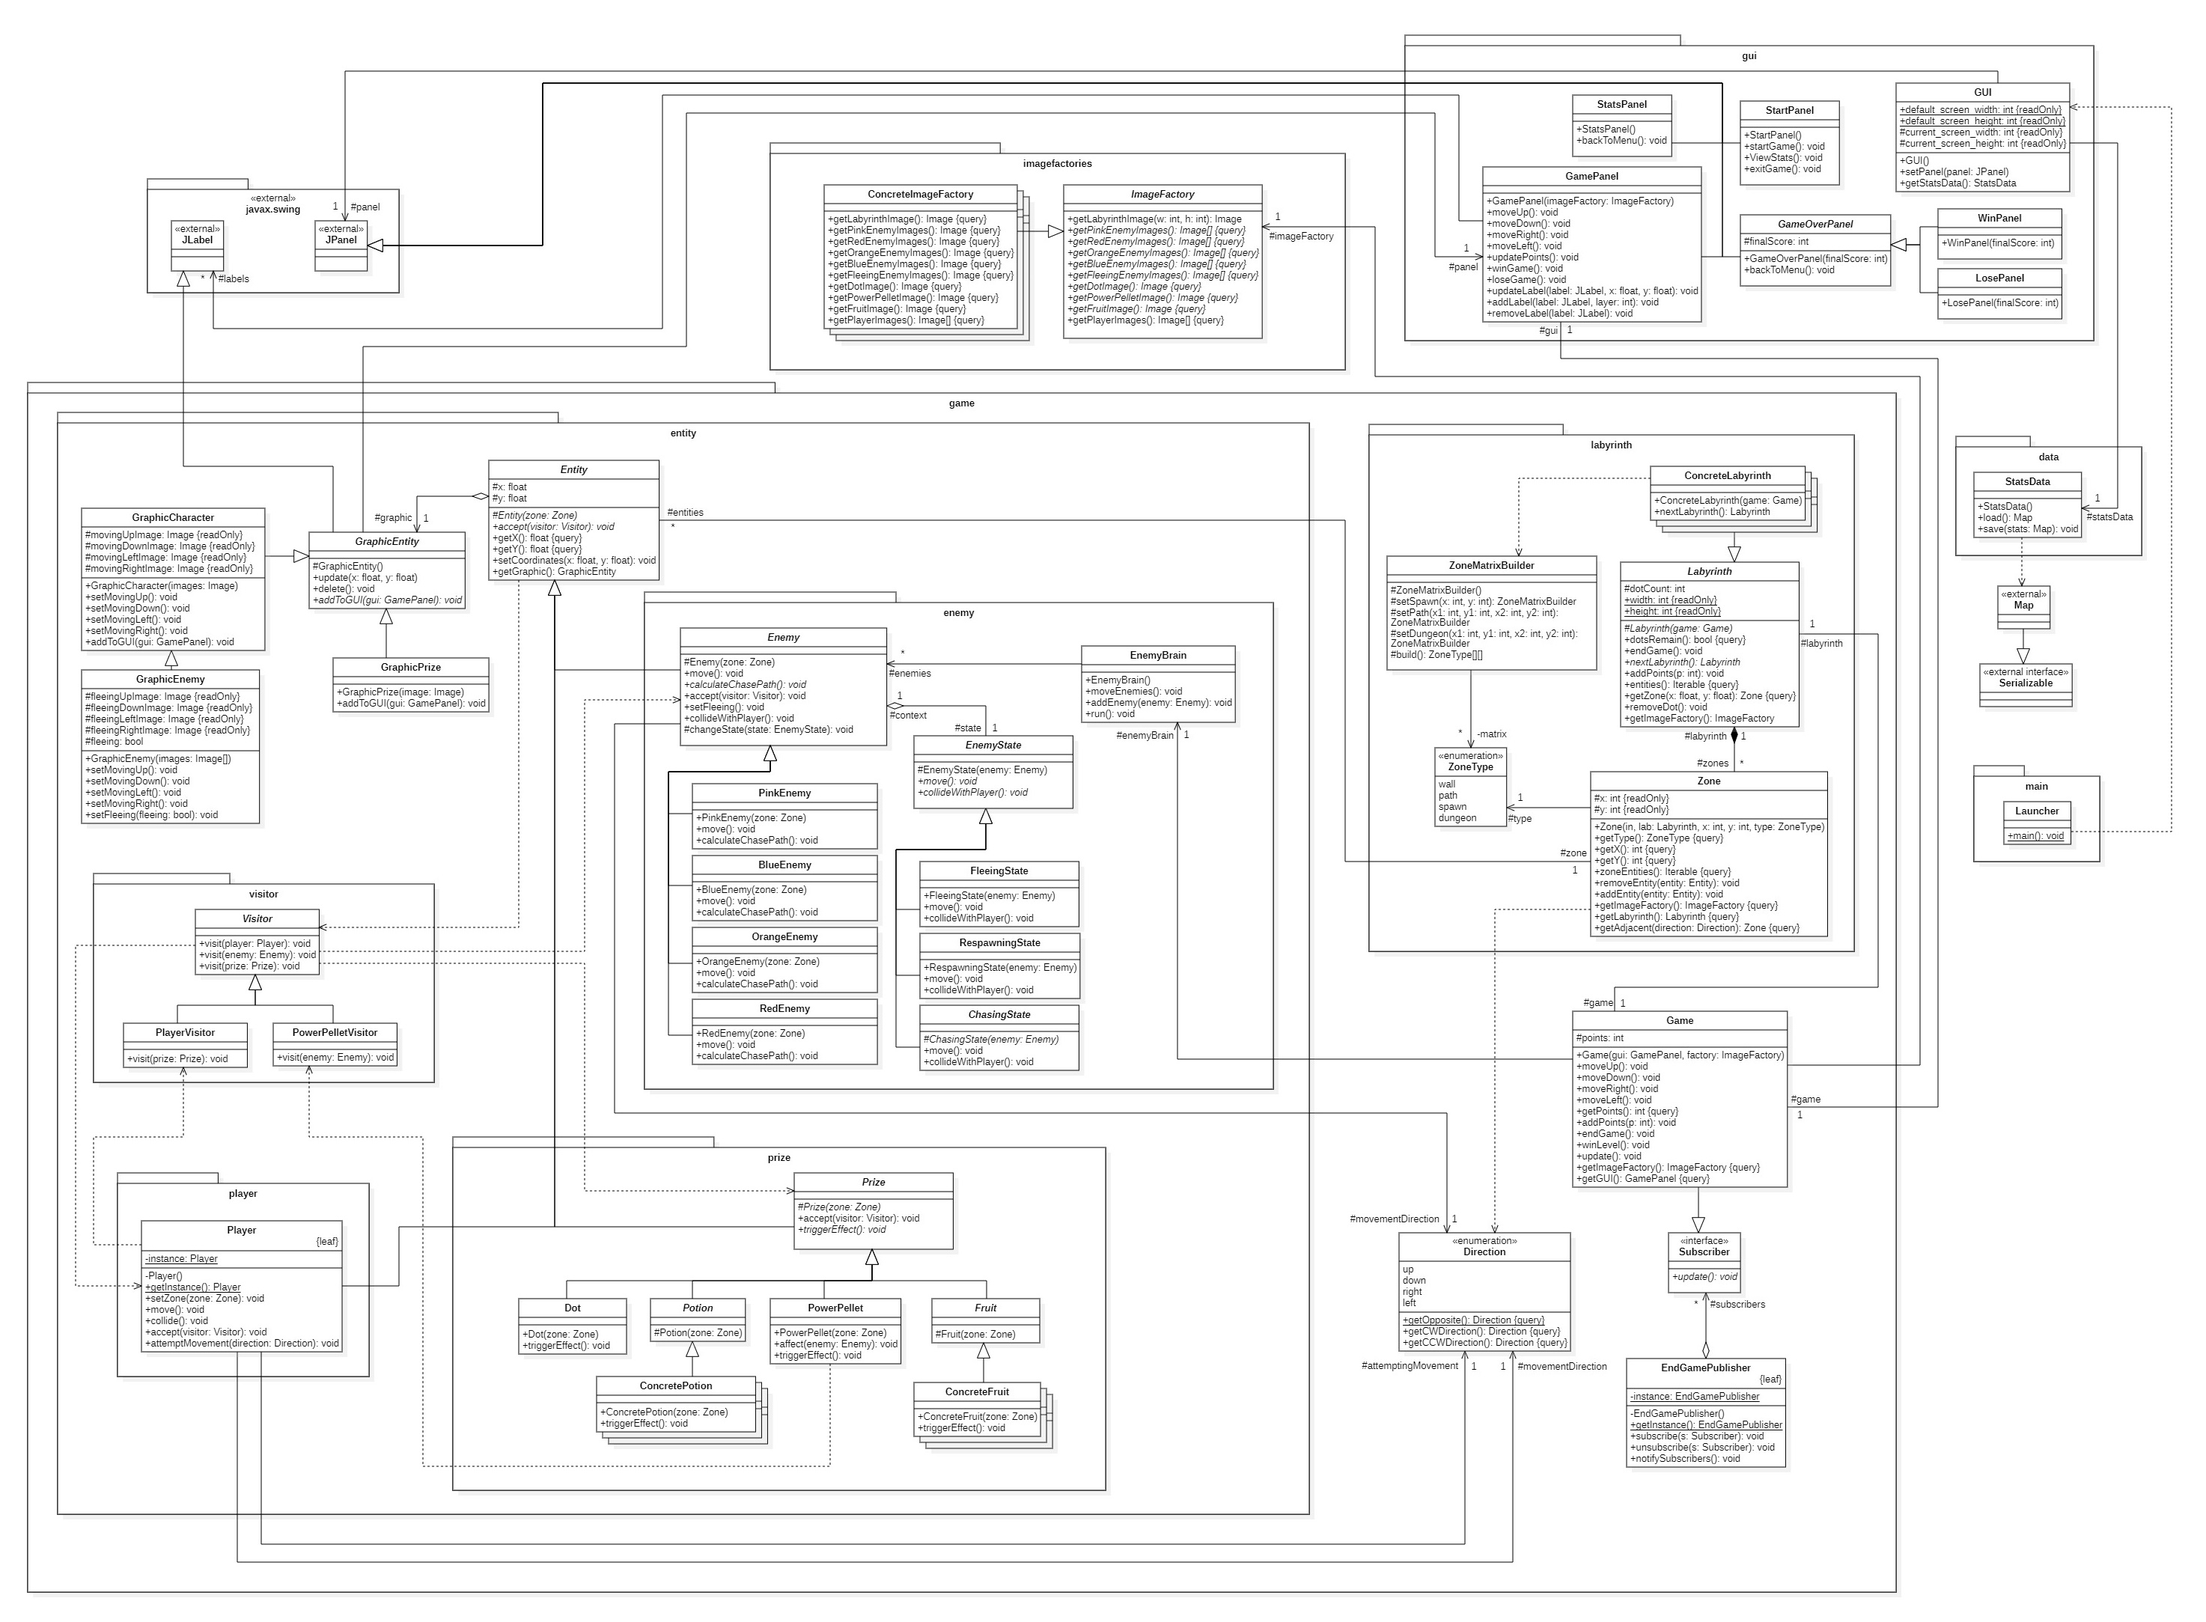
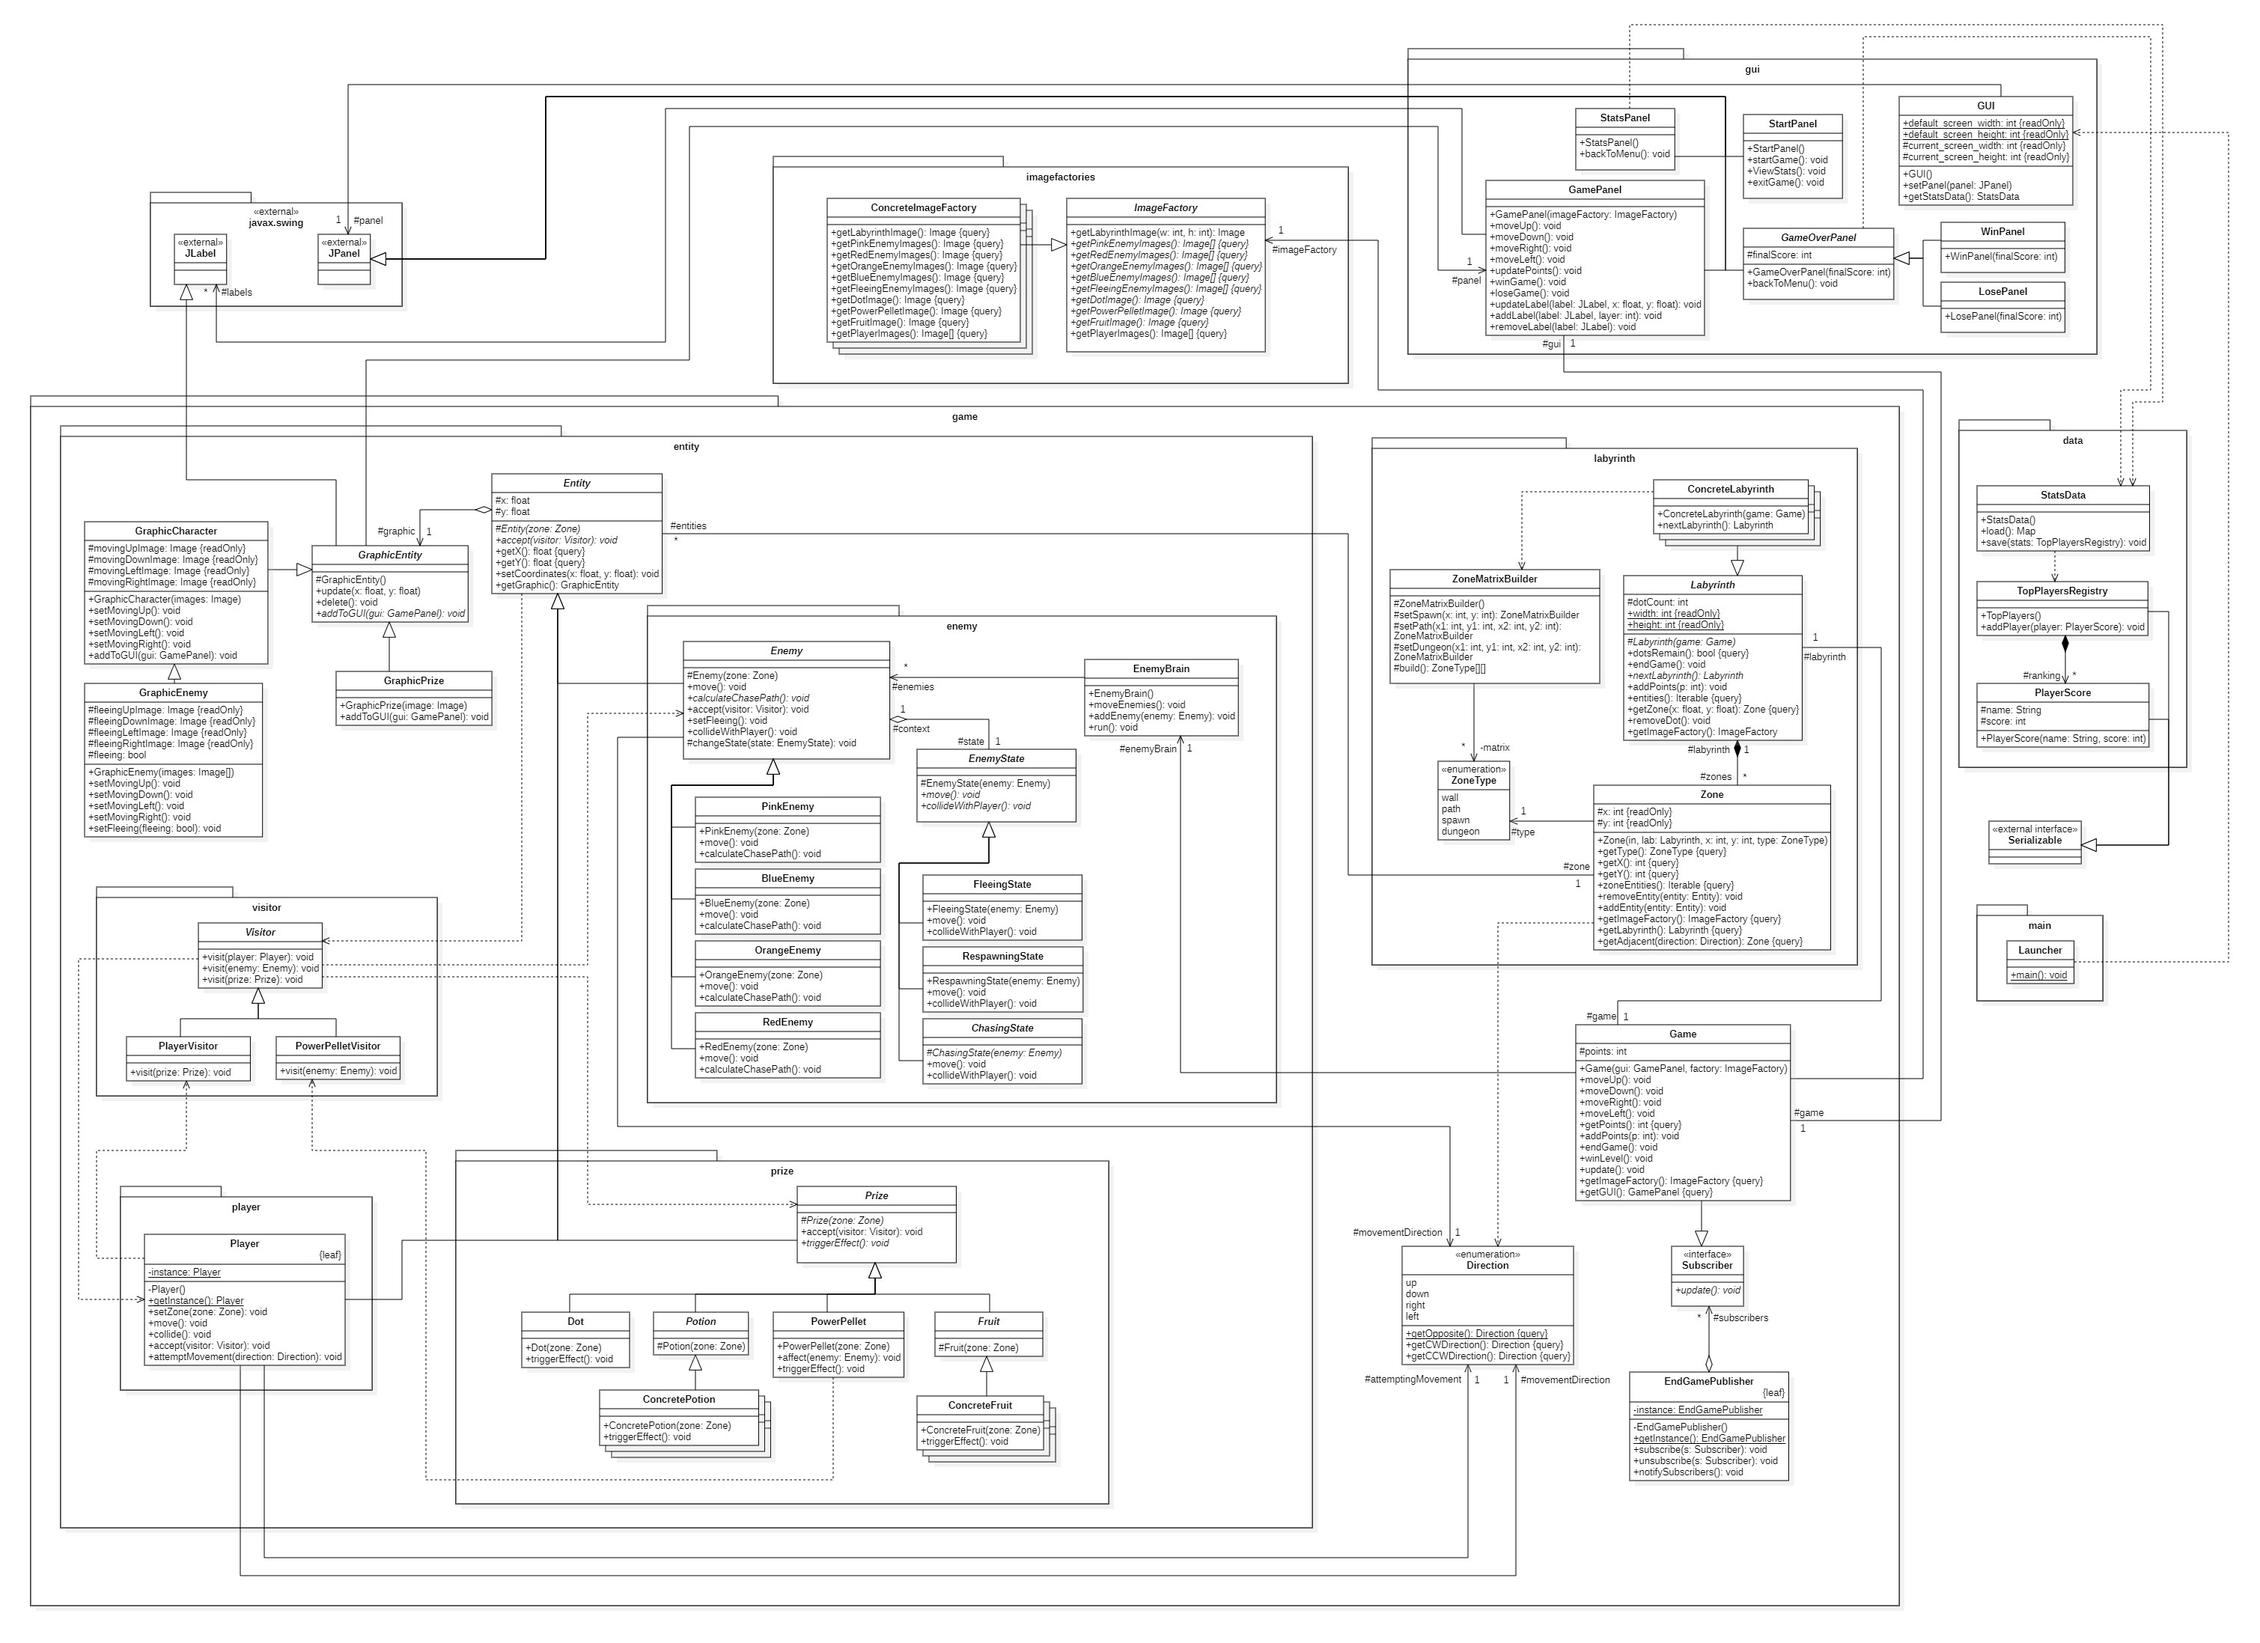
Modificado diagrama de clases
cambios en data

diff --git a/src/data/PlayerScore.java b/src/data/PlayerScore.java
@@ -2,7 +2,7 @@ package data;
 
 import java.io.Serializable;
 
-public class ScorePlayer implements Serializable, Comparable<ScorePlayer> {
+public class PlayerScore implements Serializable, Comparable<PlayerScore> {
 	/**
 	 * 
 	 */
@@ -10,7 +10,7 @@ public class ScorePlayer implements Serializable, Comparable<ScorePlayer> {
 	private String name;
 	private Integer score;
 	
-	public ScorePlayer(String name, Integer score) {
+	public PlayerScore(String name, Integer score) {
 		this.name = name;
 		this.score = score;
 	}
@@ -26,7 +26,7 @@ public class ScorePlayer implements Serializable, Comparable<ScorePlayer> {
 	// FIXME sobreescribir tambien el metodo equals para cumplir el contrato de la interfaz Comparable
 	
 	@Override
-	public int compareTo(ScorePlayer arg0) {
+	public int compareTo(PlayerScore arg0) {
 		return this.score.compareTo(arg0.getScore());
 	}
 	

diff --git a/src/data/TopPlayers.java b/src/data/TopPlayers.java
@@ -10,22 +10,22 @@ public class TopPlayers implements Serializable {
 	 * 
 	 */
 	private static final long serialVersionUID = 1L;
-	protected List<ScorePlayer> ranking;				// FIXME esto tiene que ser privado o transient -AF
+	protected List<PlayerScore> ranking;				// FIXME esto tiene que ser privado o transient -AF
 	
 	public TopPlayers() {
 		ranking = new ArrayList<>();
 	}
 	
-	public void addPlayer(ScorePlayer p) {
+	public void addPlayer(PlayerScore p) {
 		ranking.add(p);
 	}
 	
-	public List<ScorePlayer> listPlayers() {
+	public List<PlayerScore> listPlayers() {
 		Collections.sort(this.ranking, Collections.reverseOrder());
-		List<ScorePlayer> top = new ArrayList<>();
+		List<PlayerScore> top = new ArrayList<>();
 		int i = 0;
 		
-		for (ScorePlayer p: this.ranking) {
+		for (PlayerScore p: this.ranking) {
 			top.add(p);
 			if (i == 5) break;
 			i++;
